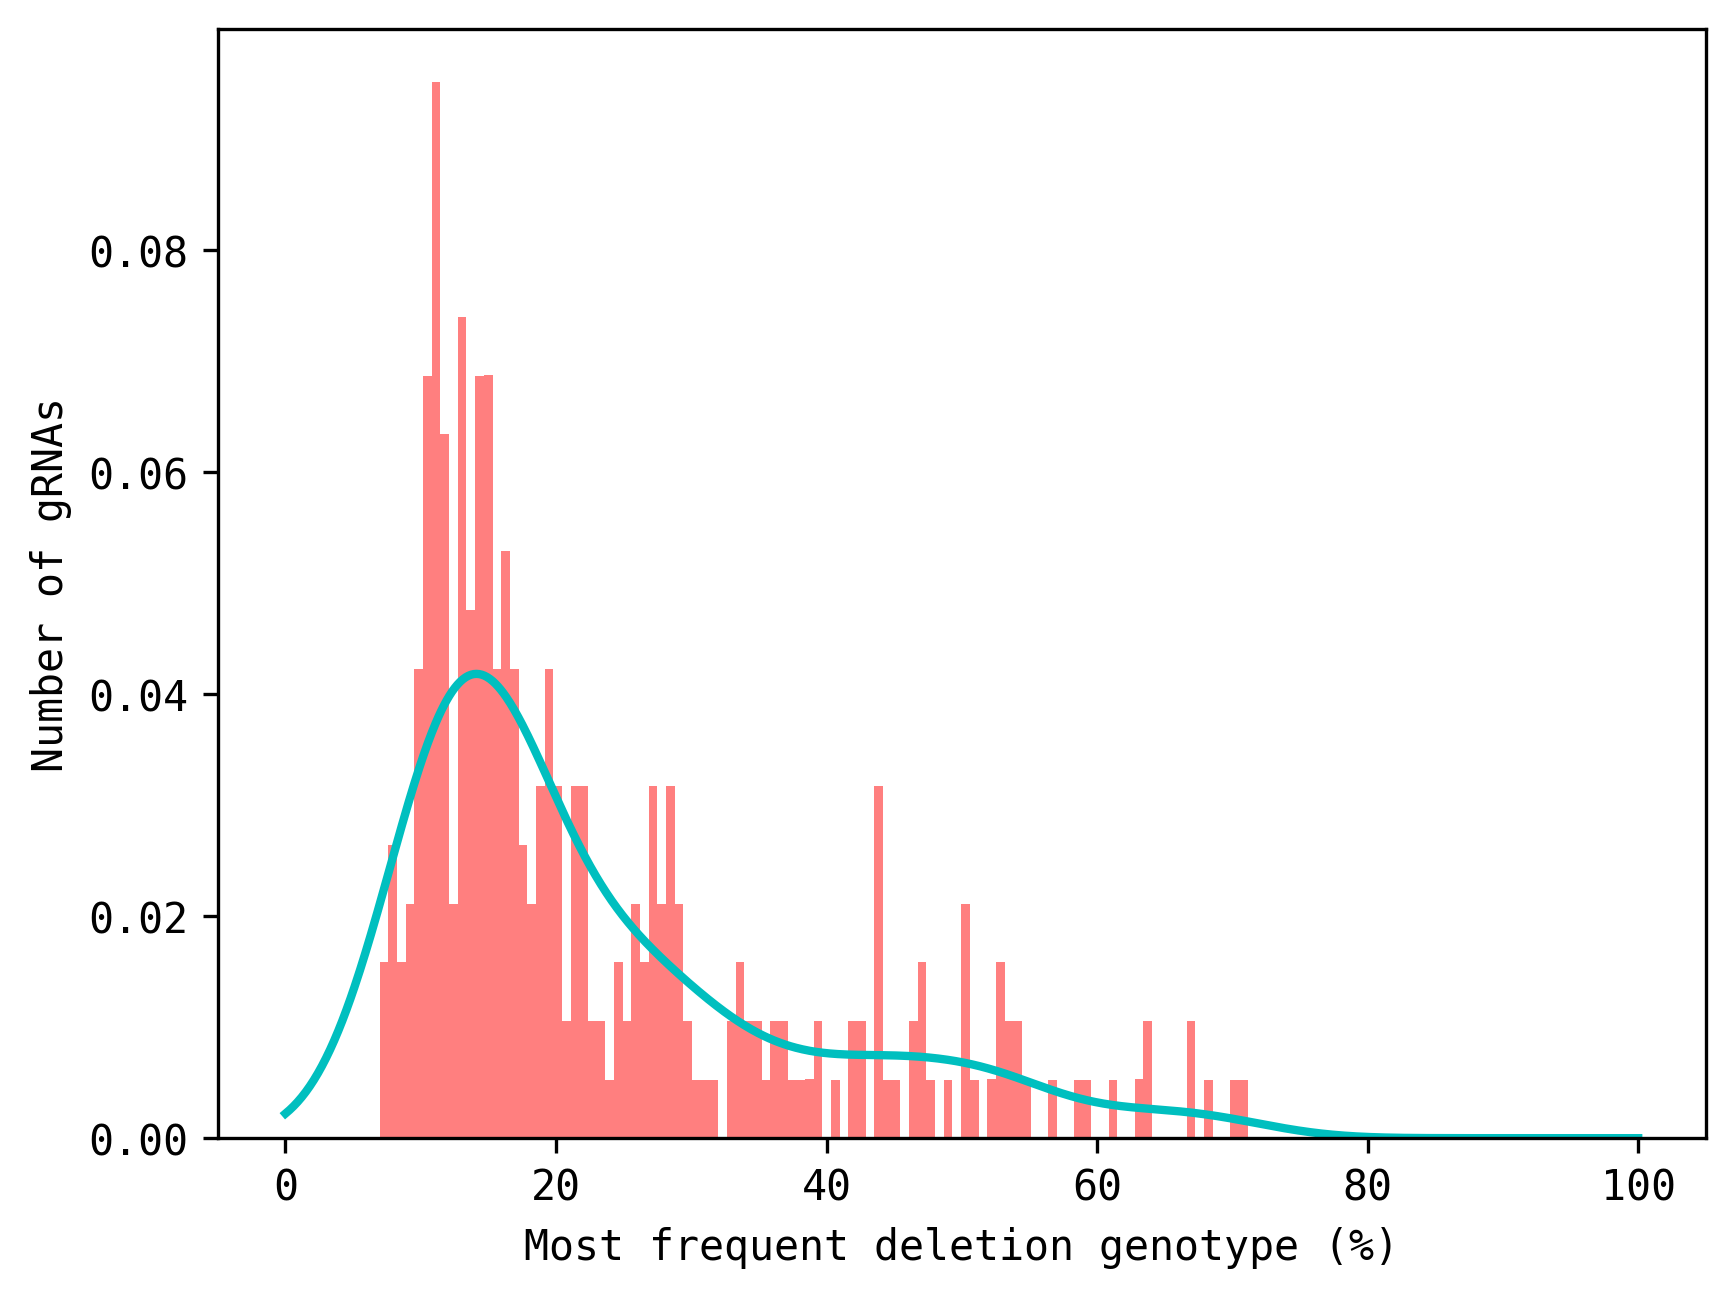
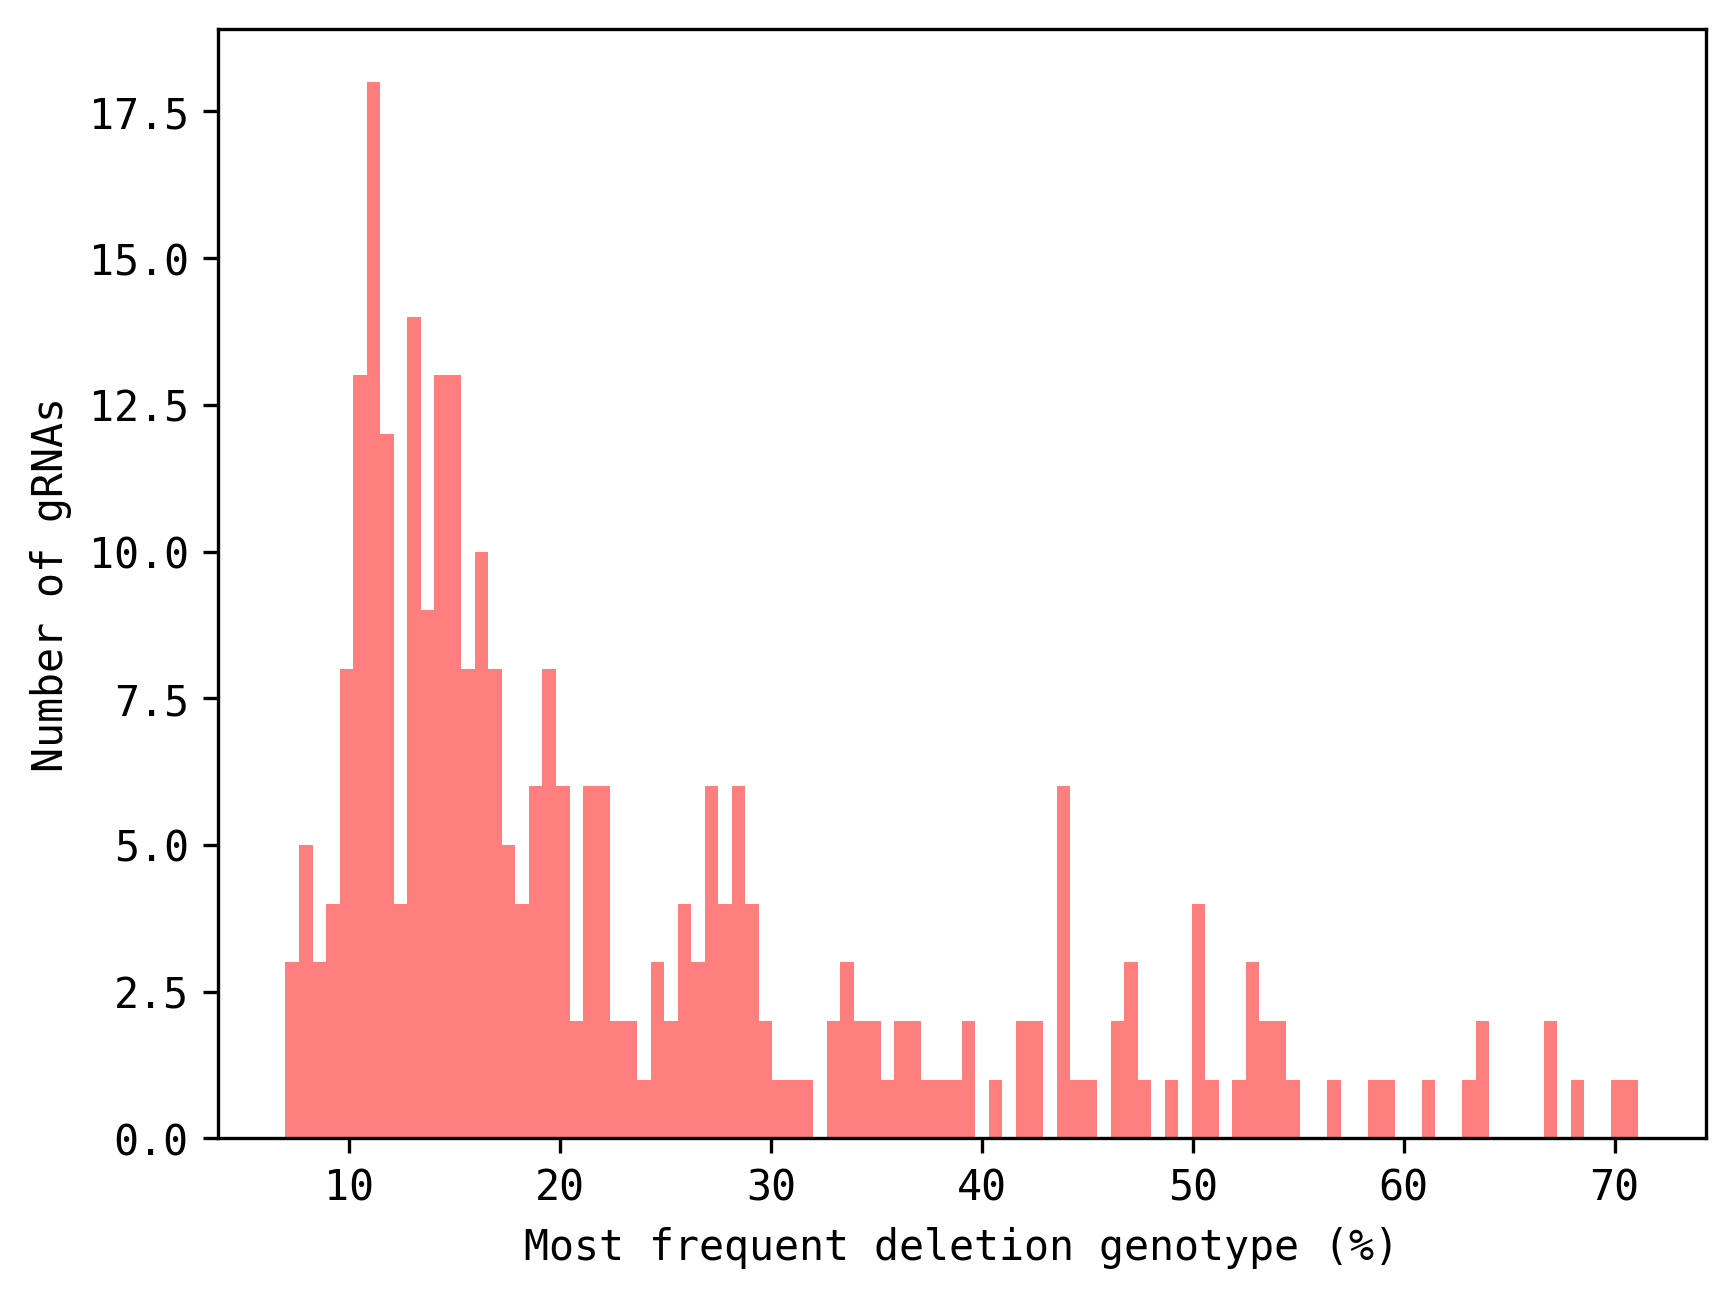
fix: remove estimated distribution from image 3f

diff --git a/generate_figures.py b/generate_figures.py
@@ -159,11 +159,11 @@ def generate_figure_3f(test_targets):
         highest_ins_freq_list.append(stats["Highest ins frequency"])
 
     # Make a histogram of the frequencies
-    kde = gaussian_kde(highest_del_freq_list)
+    # kde = gaussian_kde(highest_del_freq_list)
     fig, ax = plt.subplots(1, 1)
-    x = np.linspace(0, 100, 1000)
-    ax.hist(highest_del_freq_list, bins = 100, density=True, color = 'red', alpha = 0.5)
-    ax.plot(x, kde(x), linewidth=2, color='c')
+    # x = np.linspace(0, 100, 1000)
+    ax.hist(highest_del_freq_list, bins = 100, density=False, color = 'red', alpha = 0.5)
+    # ax.plot(x, kde(x), linewidth=2, color='c')
     # Adds labels to the figure
     ax.set_xlabel('Most frequent deletion genotype (%)')
     ax.set_ylabel('Number of gRNAs')
@@ -171,11 +171,11 @@ def generate_figure_3f(test_targets):
     # Save figure to output folder
     fig.savefig("figures/figure_3f_deletions.png",dpi=300, bbox_inches = "tight")
 
-    kde2 = gaussian_kde(highest_ins_freq_list)
+    # kde2 = gaussian_kde(highest_ins_freq_list)
     fig2, ax2 = plt.subplots(1, 1)
-    x = np.linspace(0, 30, 150)
-    ax2.hist(highest_ins_freq_list, bins = 15, density=True, color = 'blue', alpha = 0.5)
-    ax2.plot(x, kde2(x), linewidth=2, color='k')
+    # x = np.linspace(0, 30, 150)
+    ax2.hist(highest_ins_freq_list, bins = 15, density=False, color = 'blue', alpha = 0.5)
+    # ax2.plot(x, kde2(x), linewidth=2, color='k')
     # Adds labels to the figure
     ax2.set_xlabel('Most frequent insertion genotype (%)')
     ax2.set_ylabel('Number of gRNAs')
